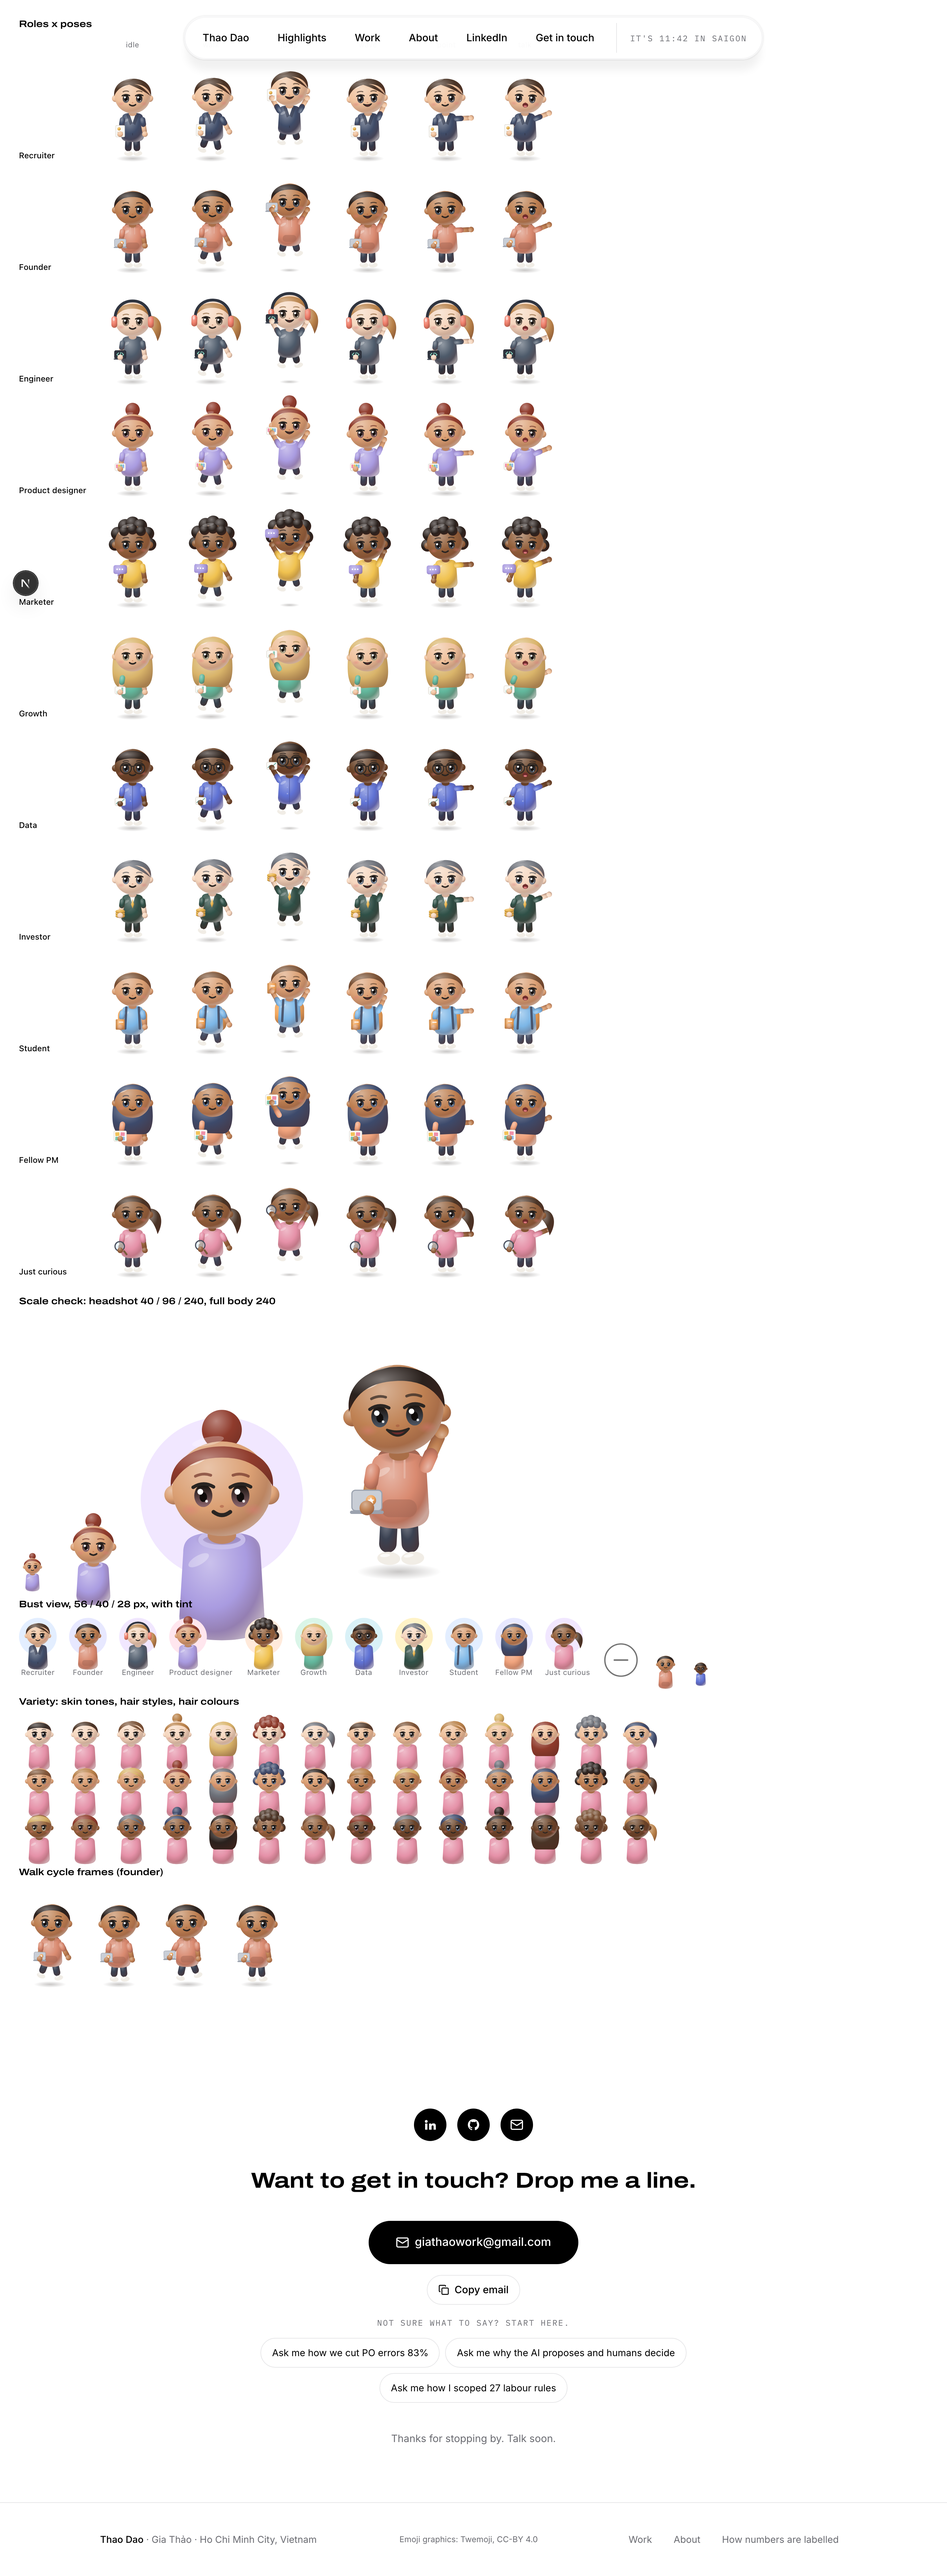
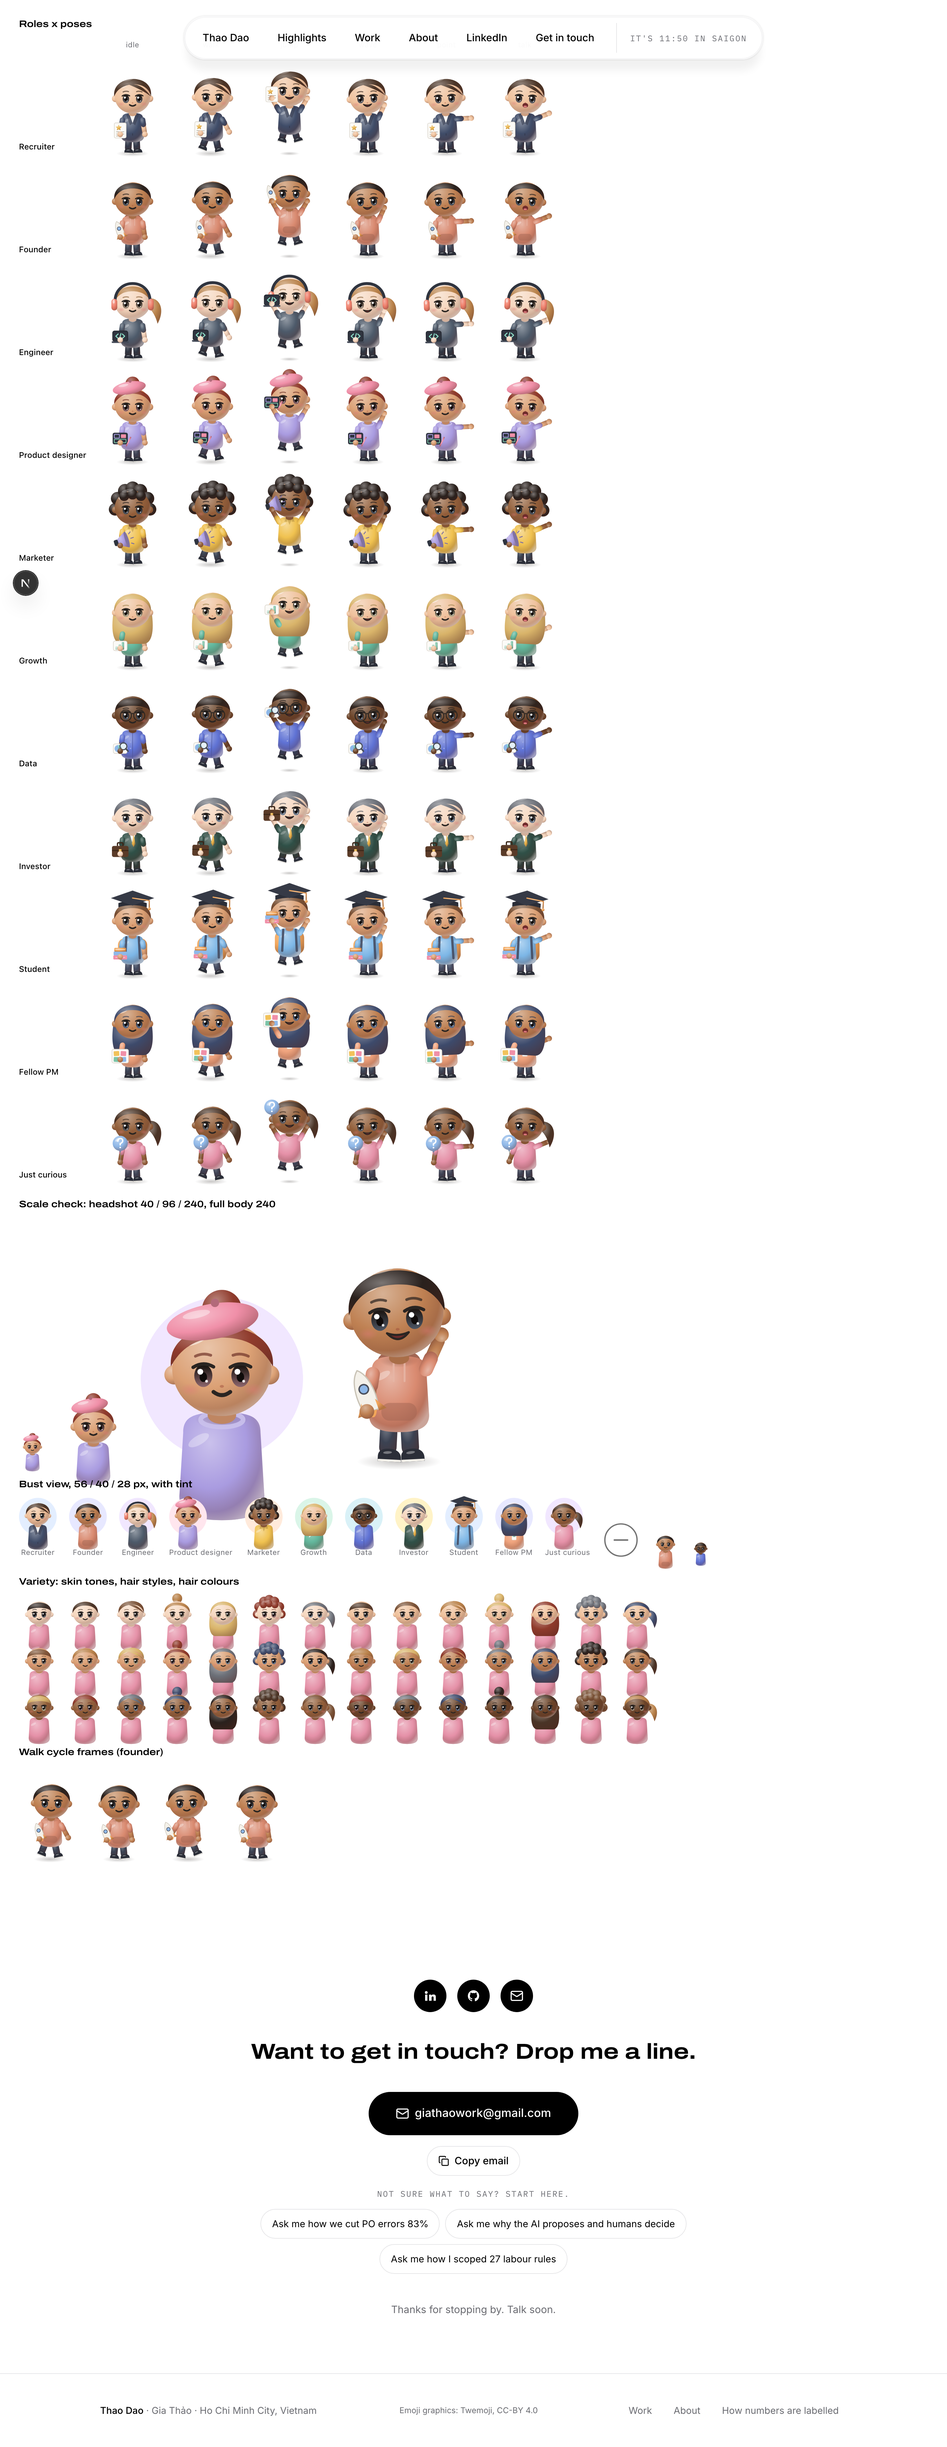
feat(clay): solid shoes flush to the box bottom, role-legible outfits and props

diff --git a/src/components/clay/parts.tsx b/src/components/clay/parts.tsx
@@ -4,14 +4,15 @@
 //     traced or copied from any mascot, stock render or third-party SVG;
 //   - soft plasticine look from radial gradients, a specular highlight and a
 //     gradient contact shadow. No SVG filters, no images, no external urls.
-// Roles: recruiter (blazer + CV sheet), founder (hoodie + laptop with sticker),
-// engineer (headphones + laptop), product designer (paint-chip card),
-// marketer (speech-bubble sign), growth (rising bars), data (round glasses +
-// chart card), investor (vest + coin stack), student (backpack + book),
-// fellow PM (sticky-note board), just curious (magnifier).
+// Roles: recruiter (blazer + starred CV), founder (hoodie + rocket), engineer
+// (headphones + code laptop), product designer (beret + frames tablet + pen),
+// marketer (lapel jacket + megaphone), growth (arrow tee + rising bars), data
+// (round glasses + magnifier over pie), investor (tie + briefcase), student
+// (grad cap + backpack + books), fellow PM (lanyard + sticky board), just
+// curious (question-mark balloon).
 
 import type { CSSProperties, ReactNode } from "react";
-import { INK, PAPER, SHOE, mix, shade, type Shade } from "./palette";
+import { INK, PAPER, SHOE, SOLE, mix, shade, type Shade } from "./palette";
 import type { PoseSpec } from "./poses";
 
 export const HAIR_STYLES = ["buzz", "short", "part", "bun", "long", "curly", "pony"] as const;
@@ -83,8 +84,8 @@ const Spec = ({ cx, cy, rx, ry, o = 0.34, r = -25 }: { cx: number; cy: number; r
   <ellipse cx={cx} cy={cy} rx={rx} ry={ry} fill="#fff" opacity={o} transform={`rotate(${r} ${cx} ${cy})`} />
 );
 
-export function Shadow({ uid, scale }: { uid: string; scale: number }) {
-  return <ellipse cx={50} cy={144} rx={26 * scale} ry={5 * scale} fill={url(uid, "g")} style={{ transition: ease, transformBox: "fill-box", transformOrigin: "center" }} />;
+export function Shadow({ uid, scale, y = 144 }: { uid: string; scale: number; y?: number }) {
+  return <ellipse cx={50} cy={y} rx={26 * scale} ry={5 * scale} fill={url(uid, "g")} style={{ transition: ease, transformBox: "fill-box", transformOrigin: "center" }} />;
 }
 
 // ---------------------------------------------------------------- limbs
@@ -99,9 +100,10 @@ export function Leg({ look, x, angle, lift }: { look: Look; x: number; angle: nu
   return (
     <g style={lim(x, 100 + lift, angle)}>
       <rect x={-6.4} y={-3} width={12.8} height={33} rx={6.4} fill={url(uid, "b")} />
-      <ellipse cx={1.2} cy={35.6} rx={8} ry={2.4} fill={url(uid, "o")} />
-      <ellipse cx={1.2} cy={34.2} rx={8.4} ry={4.8} fill={SHOE} />
-      <Spec cx={-1.6} cy={32.2} rx={3.6} ry={1.2} o={0.7} r={-8} />
+      {/* shoe: rounded toe cap over the leg end, flat sole at y=34 (no gap, no float) */}
+      <path d="M-7 34 V30.4 C-7 25.6 -3 24.6 1.4 24.6 C7 24.6 10 27.4 10 31.4 V34 Z" fill={SHOE} />
+      <rect x={-7} y={32.4} width={17} height={1.6} rx={0.6} fill={SOLE} />
+      <Spec cx={0} cy={27.4} rx={3.2} ry={1} o={0.35} r={-6} />
     </g>
   );
 }
@@ -268,8 +270,8 @@ export function Torso({ look, role }: { look: Look; role: string }) {
       {role === "designer" && <ellipse cx={50} cy={60.4} rx={11} ry={3.8} fill="none" stroke={light} strokeWidth={2.4} opacity={0.9} />}
       {role === "growth" && (
         <g>
-          <circle cx={60} cy={73} r={4.6} fill={url(uid, "a")} />
-          <path d="M57.6 74.6 l2.4 -3 l2.4 3" fill="none" stroke="#fff" strokeWidth={1.3} strokeLinecap="round" strokeLinejoin="round" />
+          <path d="M40 84 L46 78 L50 81 L59 71" fill="none" stroke="#fff" strokeWidth={2} strokeLinecap="round" strokeLinejoin="round" opacity={0.9} />
+          <path d="M55 71 h4 v4" fill="none" stroke="#fff" strokeWidth={1.3} strokeLinecap="round" strokeLinejoin="round" />
         </g>
       )}
       {role === "data" && (
@@ -281,13 +283,19 @@ export function Torso({ look, role }: { look: Look; role: string }) {
       {role === "investor" && (
         <g>
           <path d="M44 57 L50 78 L56 57Z" fill={PAPER} />
-          <path d="M50 66 l3 10 l-3 8 l-3 -8Z" fill={url(uid, "a")} />
+          <path d="M48 60 h4 l1 4 l2.4 14 l-3.4 6 l-3.4 -6 l2.4 -14z" fill={url(uid, "a")} />
           <path d="M31 70 L43 58 L48 84 L30 96Z M69 70 L57 58 L52 84 L70 96Z" fill={dark} opacity={0.18} />
         </g>
       )}
       {role === "student" && <path d="M38 60 L36 100 M62 60 L64 100" stroke={shade(look.bottom).mid} strokeWidth={4.4} strokeLinecap="round" opacity={0.9} />}
-      {role === "pm" && <rect x={54} y={72} width={8} height={8} rx={1.4} fill={url(uid, "a")} transform="rotate(8 58 76)" />}
-      {role === "marketer" && <path d="M44 60 Q50 66 56 60" fill="none" stroke={light} strokeWidth={2} strokeLinecap="round" />}
+      {role === "pm" && (
+        <g>
+          <path d="M42 58 L50 80 L58 58" fill="none" stroke={url(uid, "a")} strokeWidth={2} />
+          <rect x={45} y={79} width={10} height={12} rx={1.6} fill={PAPER} stroke="#d9d4ca" strokeWidth={0.6} />
+          <rect x={47} y={82} width={6} height={2} rx={1} fill={url(uid, "a")} />
+        </g>
+      )}
+      {role === "marketer" && <path d="M44 57.6 L50 72 L56 57.6 M44 57.6 L40 66 L46 66 Z M56 57.6 L60 66 L54 66 Z" fill={dark} opacity={0.5} />}
       {role === "engineer" && <path d="M44 60 Q50 65.4 56 60" fill="none" stroke={light} strokeWidth={2} strokeLinecap="round" />}
       {role === "curious" && <path d="M44 60 Q50 66 56 60" fill="none" stroke={light} strokeWidth={2} strokeLinecap="round" />}
     </g>
@@ -306,8 +314,25 @@ export function BackGear({ look, role }: { look: Look; role: string }) {
 
 /** Headwear and face gear drawn over the hair. */
 export function Headgear({ look, role }: { look: Look; role: string }) {
-  if (role !== "engineer") return null;
   const a = url(look.uid, "a");
+  if (role === "designer")
+    return (
+      <g>
+        <ellipse cx={46} cy={17.6} rx={20} ry={7.6} fill={a} transform="rotate(-10 46 17.6)" />
+        <circle cx={47} cy={9.6} r={1.8} fill={shade(look.accent).dark} />
+        <Spec cx={39} cy={14.6} rx={6} ry={1.6} o={0.4} r={-12} />
+      </g>
+    );
+  if (role === "student")
+    return (
+      <g>
+        <path d="M33 19 Q50 13 67 19 V24 Q50 19 33 24Z" fill="#2b2e38" />
+        <path d="M50 4 L76 13 L50 22 L24 13Z" fill="#363a46" />
+        <path d="M50 13 L70 16 V25" fill="none" stroke={a} strokeWidth={1.4} strokeLinecap="round" />
+        <circle cx={70} cy={26} r={1.8} fill={a} />
+      </g>
+    );
+  if (role !== "engineer") return null;
   return (
     <g>
       <path d="M29 39 C27.4 8 72.6 8 71 39" fill="none" stroke="#2f343f" strokeWidth={3.4} strokeLinecap="round" />
@@ -332,17 +357,17 @@ export function Prop({ look, role }: { look: Look; role: string }) {
       return (
         <g>
           <rect x={-8.6} y={13} width={17.2} height={22} rx={2} fill={PAPER} stroke="#d9d4ca" strokeWidth={0.8} />
-          <rect x={-5.4} y={16.4} width={6.4} height={6.4} rx={3.2} fill={a} />
+          <path d="M-2.2 15.6 l1.3 2.7 l3 .4 l-2.2 2.1 l.5 3 l-2.6 -1.4 l-2.6 1.4 l.5 -3 l-2.2 -2.1 l3 -.4z" fill={a} />
           <path d="M-5.4 26 h10.8 M-5.4 29.2 h10.8 M-5.4 32 h7" stroke="#bdb6a8" strokeWidth={1.1} strokeLinecap="round" />
         </g>
       );
     case "founder":
       return (
-        <g>
-          <rect x={-11} y={16.6} width={22} height={15} rx={2.6} fill="#c9ced6" stroke="#9ba2ae" strokeWidth={0.8} />
-          <circle cx={3} cy={24} r={3.8} fill={a} />
-          <path d="M3 21.8 l.8 1.6 l1.7 .2 l-1.3 1.2 l.4 1.7 l-1.6 -.9 l-1.6 .9 l.4 -1.7 l-1.3 -1.2 l1.7 -.2z" fill="#fff" />
-          <rect x={-12.4} y={31.6} width={24.8} height={2.4} rx={1.2} fill="#9ba2ae" />
+        <g transform="rotate(-20 0 22)">
+          <path d="M0 6 C6 11 6 24 4 30 H-4 C-6 24 -6 11 0 6Z" fill="#f4f1ea" stroke="#c9c3b6" strokeWidth={0.7} />
+          <circle cx={0} cy={17} r={2.6} fill="#8fb8e8" stroke="#4a4f5c" strokeWidth={0.8} />
+          <path d="M-4 24 L-8.4 31 H-4Z M4 24 L8.4 31 H4Z" fill={a} />
+          <path d="M-3 30 Q0 37 3 30Z" fill="#f2a65a" />
         </g>
       );
     case "engineer":
@@ -356,20 +381,20 @@ export function Prop({ look, role }: { look: Look; role: string }) {
     case "designer":
       return (
         <g>
-          {card()}
-          <g>
-            <rect x={-8} y={21} width={3.6} height={7} rx={0.8} fill="#f08fa8" /><rect x={-4} y={21} width={3.6} height={7} rx={0.8} fill="#f2c25a" />
-            <rect x={0} y={21} width={3.6} height={7} rx={0.8} fill="#7cc4a8" /><rect x={4} y={21} width={3.6} height={7} rx={0.8} fill="#8fb8e8" />
-          </g>
-          <rect x={-6} y={28.8} width={12} height={2} rx={1} fill="#e4dfd4" />
+          <rect x={-11} y={15} width={22} height={17} rx={2.6} fill="#2f343f" />
+          <rect x={-8.6} y={17.4} width={7.4} height={5.4} rx={0.8} fill="none" stroke="#a99be0" strokeWidth={1.1} />
+          <rect x={1} y={17.4} width={7.4} height={5.4} rx={0.8} fill="#f08fa8" />
+          <rect x={-8.6} y={24.6} width={17} height={5} rx={0.8} fill="none" stroke="#7cc4a8" strokeWidth={1.1} />
+          <path d="M9 34 L15 22" stroke={a} strokeWidth={2} strokeLinecap="round" />
         </g>
       );
     case "marketer":
       return (
-        <g>
-          <rect x={-1} y={20} width={2.4} height={14} rx={1.2} fill="#c9a97a" />
-          <path d="M-12 -2 h22 a4 4 0 0 1 4 4 v9 a4 4 0 0 1 -4 4 h-9 l-5 5 v-5 h-4 a4 4 0 0 1 -4 -4 v-9 a4 4 0 0 1 4 -4z" fill={a} transform="translate(-1 2)" />
-          <g fill="#fff"><circle cx={-6} cy={8} r={1.5} /><circle cx={-1} cy={8} r={1.5} /><circle cx={4} cy={8} r={1.5} /></g>
+        <g transform="rotate(-18 0 24)">
+          <path d="M-4 20 L10 12 V36 L-4 28Z" fill={a} />
+          <ellipse cx={10} cy={24} rx={2.6} ry={12} fill={dark} />
+          <rect x={-9} y={19.6} width={6} height={8.8} rx={2} fill="#2f343f" />
+          <path d="M15 17 l3 -2 M16 24 h4 M15 31 l3 2" stroke={dark} strokeWidth={1.3} strokeLinecap="round" />
         </g>
       );
     case "growth":
@@ -385,27 +410,28 @@ export function Prop({ look, role }: { look: Look; role: string }) {
       return (
         <g>
           {card()}
-          <path d="M-7.6 29.6 L-3.4 25.2 L0.6 27.6 L7 21.4" fill="none" stroke={dark} strokeWidth={1.3} strokeLinecap="round" strokeLinejoin="round" />
-          <circle cx={7} cy={21.4} r={1.4} fill={a} />
+          <circle cx={-3} cy={26} r={5.2} fill="#8fb8e8" />
+          <path d="M-3 26 V20.8 A5.2 5.2 0 0 1 2.2 26Z" fill={a} />
+          <circle cx={4.6} cy={22.6} r={5} fill="#cfe6f6" fillOpacity={0.5} stroke="#4a4f5c" strokeWidth={1.6} />
+          <path d="M8 26 L11.4 29.6" stroke="#4a4f5c" strokeWidth={2.2} strokeLinecap="round" />
         </g>
       );
     case "investor":
       return (
         <g>
-          {[0, 1, 2].map((i) => (
-            <g key={i}>
-              <ellipse cx={0} cy={31 - i * 4.2} rx={9} ry={3.4} fill={dark} />
-              <ellipse cx={0} cy={30 - i * 4.2} rx={9} ry={3.4} fill={a} />
-            </g>
-          ))}
+          <rect x={-12} y={18} width={24} height={16} rx={2.6} fill="#5a3b28" />
+          <path d="M-4 18 V15 Q-4 13.4 -2.4 13.4 H2.4 Q4 13.4 4 15 V18" fill="none" stroke="#3a2618" strokeWidth={1.8} />
+          <rect x={-12} y={24} width={24} height={1.4} fill="#3a2618" />
+          <rect x={-2} y={22.6} width={4} height={4.2} rx={0.8} fill={a} />
         </g>
       );
     case "student":
       return (
         <g>
-          <rect x={-8.6} y={14.6} width={17.2} height={20} rx={2.2} fill={a} />
-          <rect x={-8.6} y={14.6} width={3.2} height={20} rx={1.4} fill={dark} opacity={0.5} />
-          <rect x={-2.6} y={19} width={8.6} height={2.2} rx={1.1} fill="#fff" opacity={0.85} />
+          <rect x={-9.6} y={22} width={19.2} height={5.6} rx={1.4} fill="#8fb8e8" />
+          <rect x={-8.6} y={16.6} width={17.2} height={5.6} rx={1.4} fill={a} />
+          <rect x={-10} y={27.6} width={20} height={6} rx={1.4} fill="#f08fa8" />
+          <path d="M-7 19.4 h14 M-7 30.6 h14" stroke="#fff" strokeWidth={0.8} opacity={0.7} />
         </g>
       );
     case "pm":
@@ -421,9 +447,12 @@ export function Prop({ look, role }: { look: Look; role: string }) {
     case "curious":
       return (
         <g>
-          <rect x={4.6} y={30} width={3.6} height={11} rx={1.8} fill="#7a5a3c" transform="rotate(-38 6.4 30)" />
-          <circle cx={-1} cy={22} r={9} fill="#cfe6f6" fillOpacity={0.55} stroke="#4a4f5c" strokeWidth={2.2} />
-          <ellipse cx={-4} cy={18.6} rx={3} ry={1.5} fill="#fff" opacity={0.7} transform="rotate(-35 -4 18.6)" />
+          <path d="M0 30 C-1 24 2 20 0 14" fill="none" stroke="#8a8478" strokeWidth={0.8} />
+          <circle cx={0} cy={2} r={11} fill={a} />
+          <Spec cx={-4} cy={-3} rx={3.6} ry={1.8} o={0.55} r={-35} />
+          <path d="M-3.4 -1 Q-3.4 -5 0 -5 Q3.6 -5 3.6 -1.6 Q3.6 1 0 2.4 V4.4" fill="none" stroke="#fff" strokeWidth={2} strokeLinecap="round" />
+          <circle cx={0} cy={8} r={1.2} fill="#fff" />
+          <path d="M-1.6 13 h3.2 l-1.6 2.4z" fill={dark} />
         </g>
       );
     default:

diff --git a/src/components/clay/clay-avatar.tsx b/src/components/clay/clay-avatar.tsx
@@ -39,7 +39,9 @@ export type ClayAvatarProps = {
   shadow?: boolean;
 };
 
-const FULL = { box: "0 -14 100 164", w: 100, h: 164 } as const;
+// Bottom edge = sole line at rest (feet 134 in leg space, scaled 0.84 about 144 -> 135.6): no padding below the soles.
+const FULL = { box: "0 -14.4 100 150", w: 100, h: 150 } as const;
+const SOLE_Y = 135.6;
 const BUST = { box: "8 -4 84 86", w: 84, h: 86 } as const;
 // Chibi proportions: head ~45% of figure height. The body shrinks about the feet
 // and the head grows about its neck; both are static SVG transforms, so poses
@@ -101,8 +103,8 @@ export function ClayAvatar({ role, skin, hair, hairStyle, accent, pose = "idle",
         </>
       ) : (
         <>
-          {shadow ? <Shadow uid={uid} scale={p.shadow} /> : null}
-          <g style={{ transform: `translateY(${p.bodyY}px) rotate(${p.lean}deg)`, transformOrigin: "50px 144px", transition: "transform 280ms cubic-bezier(.3,.7,.2,1)" }}>
+          {shadow ? <Shadow uid={uid} scale={p.shadow} y={SOLE_Y} /> : null}
+          <g style={{ transform: `translateY(${p.bodyY}px) rotate(${p.lean}deg)`, transformOrigin: `50px ${SOLE_Y}px`, transition: "transform 280ms cubic-bezier(.3,.7,.2,1)" }}>
             <g transform={BODY_T}>
               <BackGear look={look} role={role} />
               <Leg look={look} x={43} angle={p.lLeg} lift={p.lLift} />
@@ -114,7 +116,7 @@ export function ClayAvatar({ role, skin, hair, hairStyle, accent, pose = "idle",
             {head}
             <g transform={BODY_T}>
             <Arm look={look} x={31} angle={p.lArm}>
-              <g style={{ transform: `rotate(${-p.lArm}deg)`, transformOrigin: "0px 29.6px", transition: "transform 280ms cubic-bezier(.3,.7,.2,1)" }}>
+              <g style={{ transform: `rotate(${-p.lArm}deg) scale(1.32)`, transformOrigin: "0px 29.6px", transition: "transform 280ms cubic-bezier(.3,.7,.2,1)" }}>
                 <Prop look={look} role={role} />
               </g>
             </Arm>

diff --git a/src/components/clay/palette.ts b/src/components/clay/palette.ts
@@ -48,7 +48,9 @@ export const ROLE_COLORS = {
 } as const satisfies Record<string, OutfitColors>;
 
 export type ClayRoleKey = keyof typeof ROLE_COLORS;
-export const SHOE = "#f1ede6";
+/** Solid dark shoe so feet read against the white canvas (sole = lowest painted pixel). */
+export const SHOE = "#2b2e38";
+export const SOLE = "#f4f1ea";
 
 /** Outfit accent colours addressed by AvatarSpec.accent (prop and trim colour). */
 export const ACCENTS = ["#e9b44c", "#ef7f6b", "#f08fa8", "#78d0c0", "#8fb8e8", "#f2a65a", "#7cc4a8", "#a99be0"] as const;

diff --git a/process/features/portfolio-site/active/autoresearch-ux-261004_04-10-26/research/R8-clay-approach.md b/process/features/portfolio-site/active/autoresearch-ux-261004_04-10-26/research/R8-clay-approach.md
@@ -32,5 +32,7 @@
 All shapes are drawn from primitives in this repo; nothing is traced from Fluent emoji, Notion/Pitch avatars, or any third-party art.
 
 ## Known gaps
-- Jump pose: raised arms now overlap the bigger head a little.
+- Jump pose: raised arms overlap the bigger head a little.
+- Feet: solid dark shoes with a light sole strip; full-body viewBox now ends exactly at the sole line (y=135.6, h=150, was 164) so there is no padding below the feet.
+- Props scaled 1.32x at the hand and redrawn per role (rocket, megaphone, frames tablet, pie+magnifier, briefcase, books, ? balloon) plus headgear (beret, grad cap, headphones) so busts read at 40px.
 - Per-render markup cap raised 6 KB → 9 KB in `tests/unit/clay.test.ts`; the 17-bust gzip ≤ 30 KB guard still holds.
